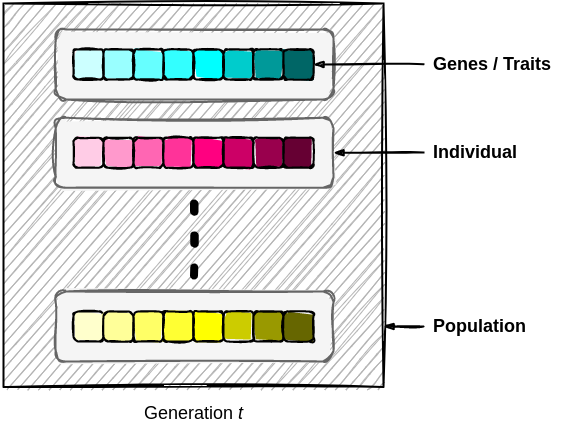
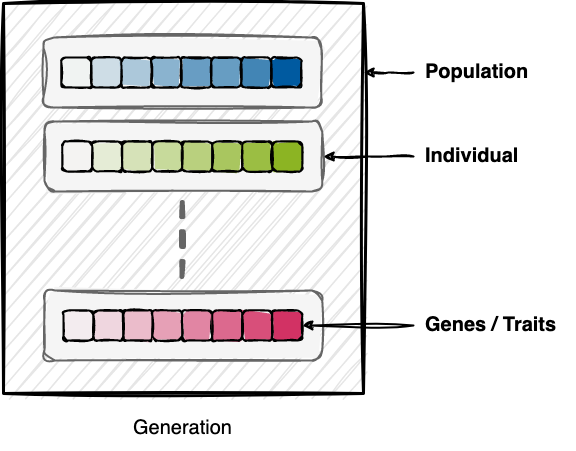
adapted colors in to Helmholtz scheme

diff --git a/docs/eas.rst b/docs/eas.rst
@@ -4,7 +4,7 @@ Evolutionary Algorithms
 =======================
 |
 
-.. image:: images/mario_cropped.png
+.. image:: images/mario.png
    :width: 80 %
    :align: center
 
@@ -65,5 +65,7 @@ Mutation
     Randomly change an individual's genes to promote genetic diversity.
 
 .. image:: images/mutation.png
-   :width: 72 %
+   :width: 76 %
    :align: center
+
+|
